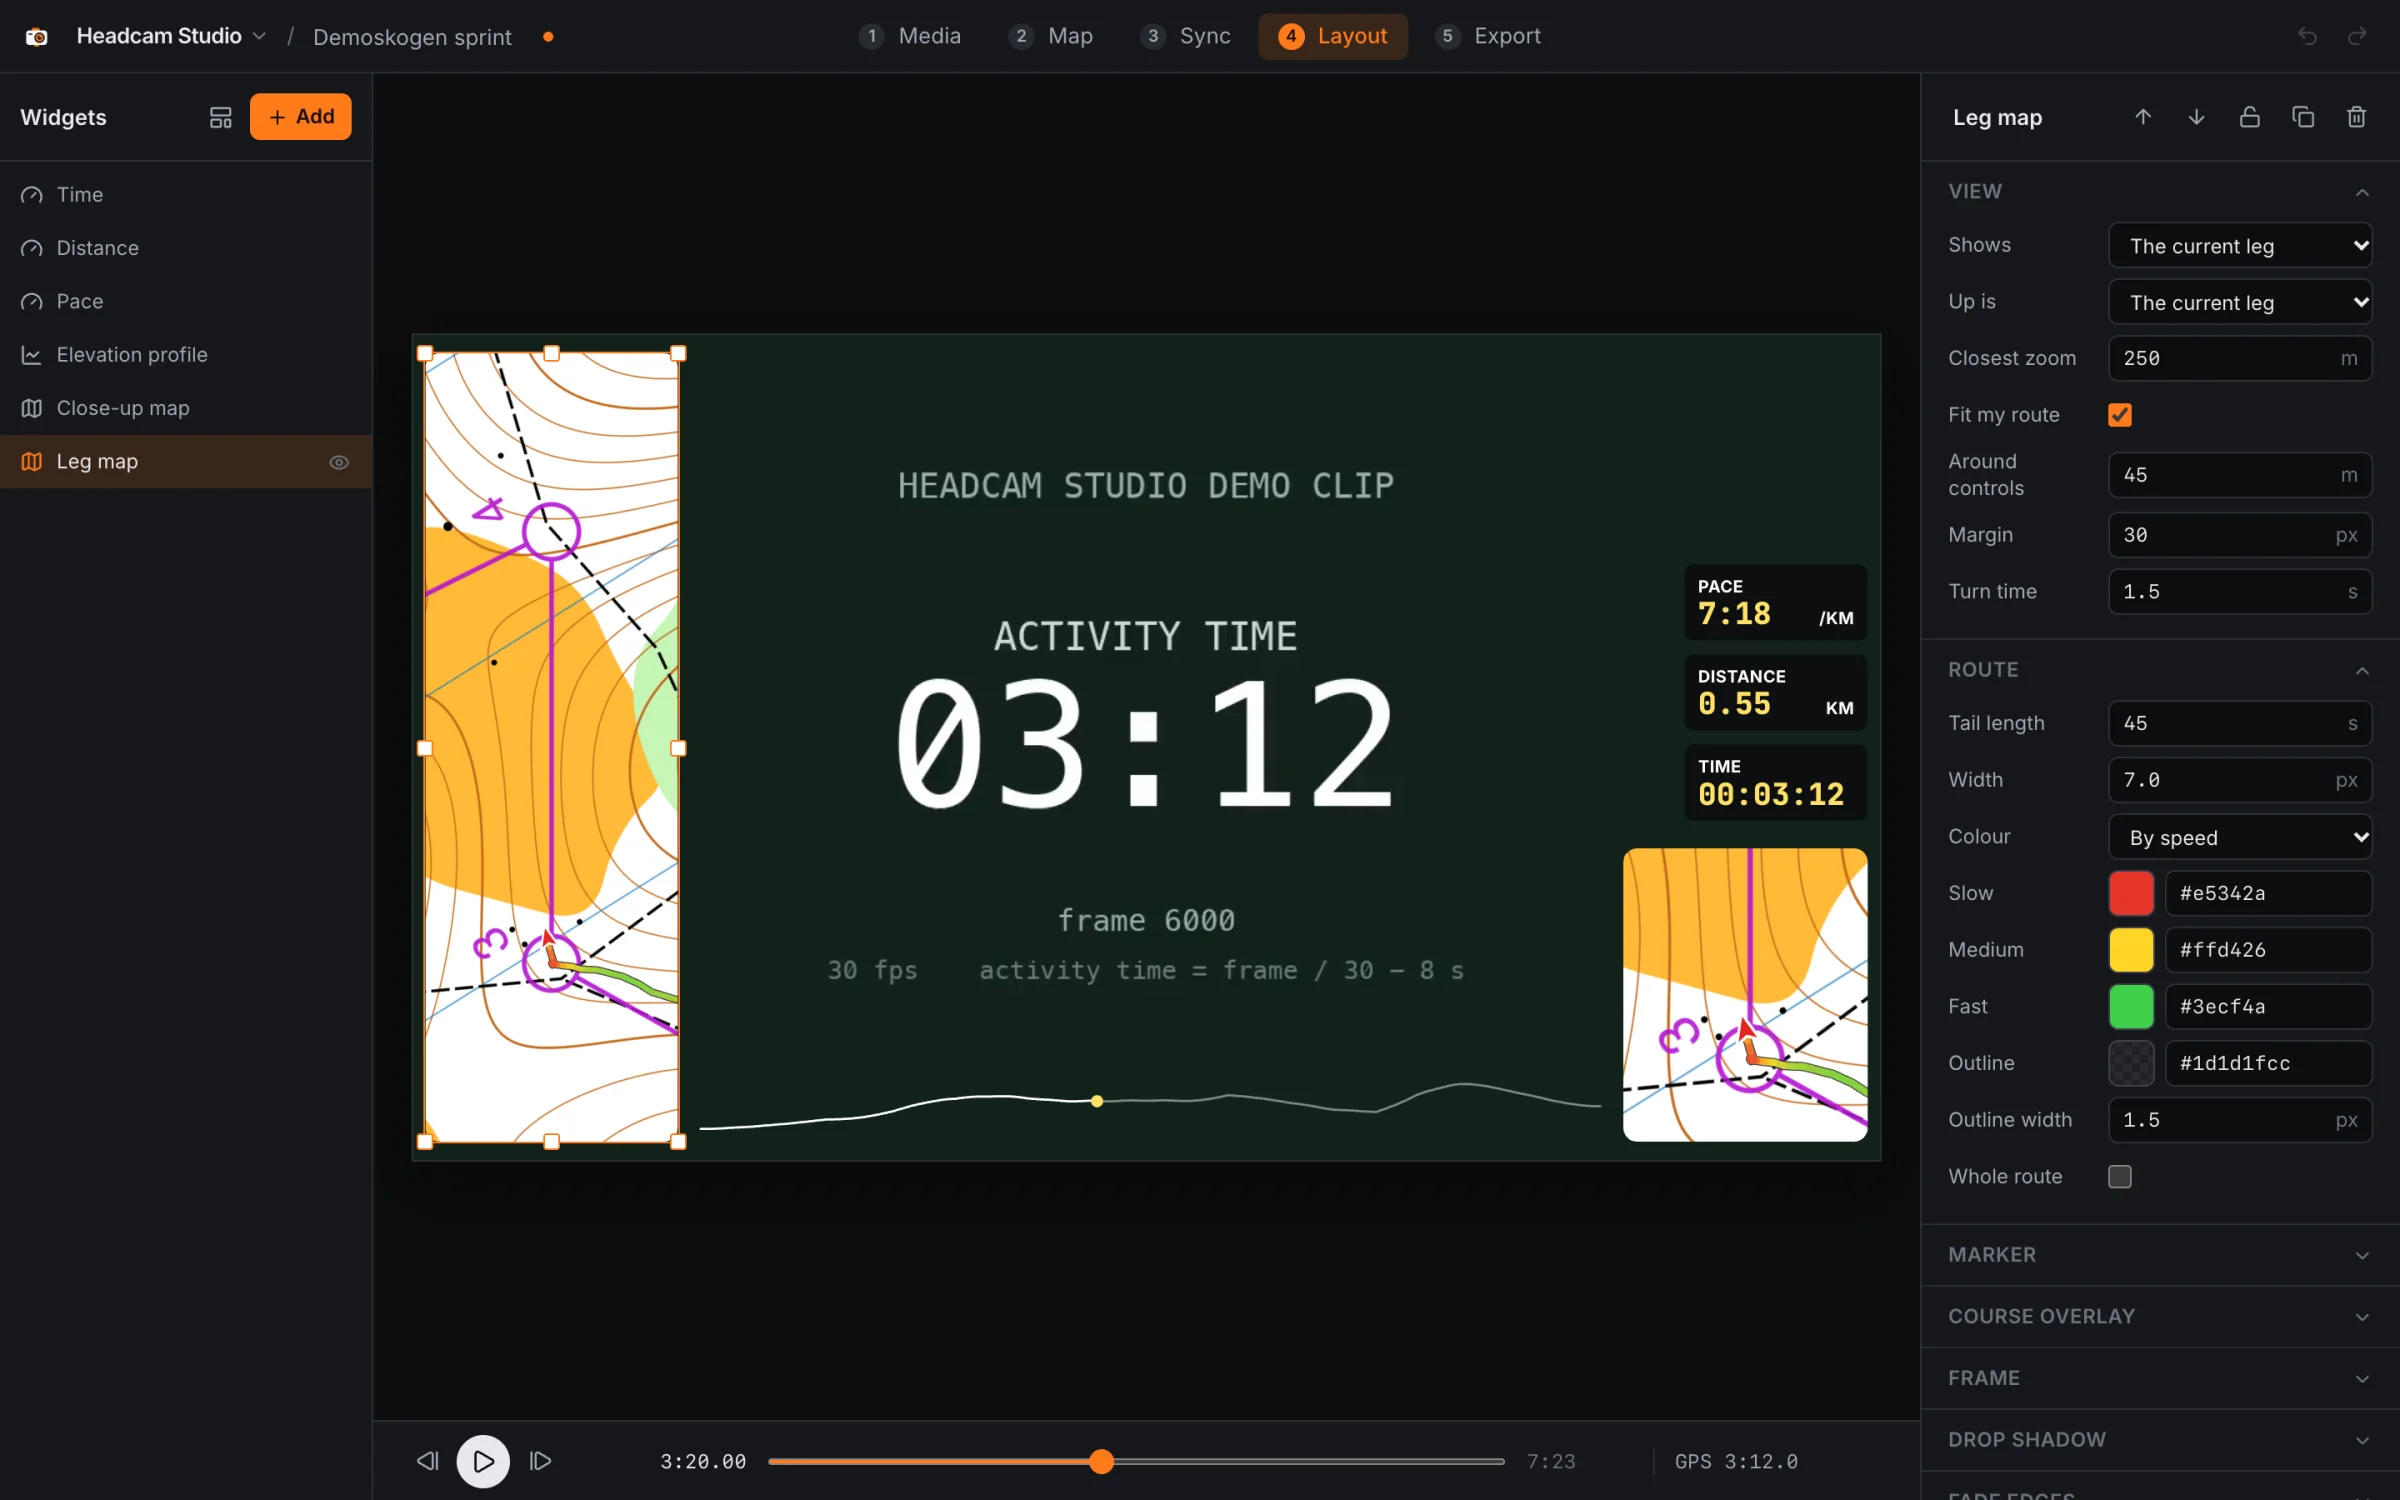
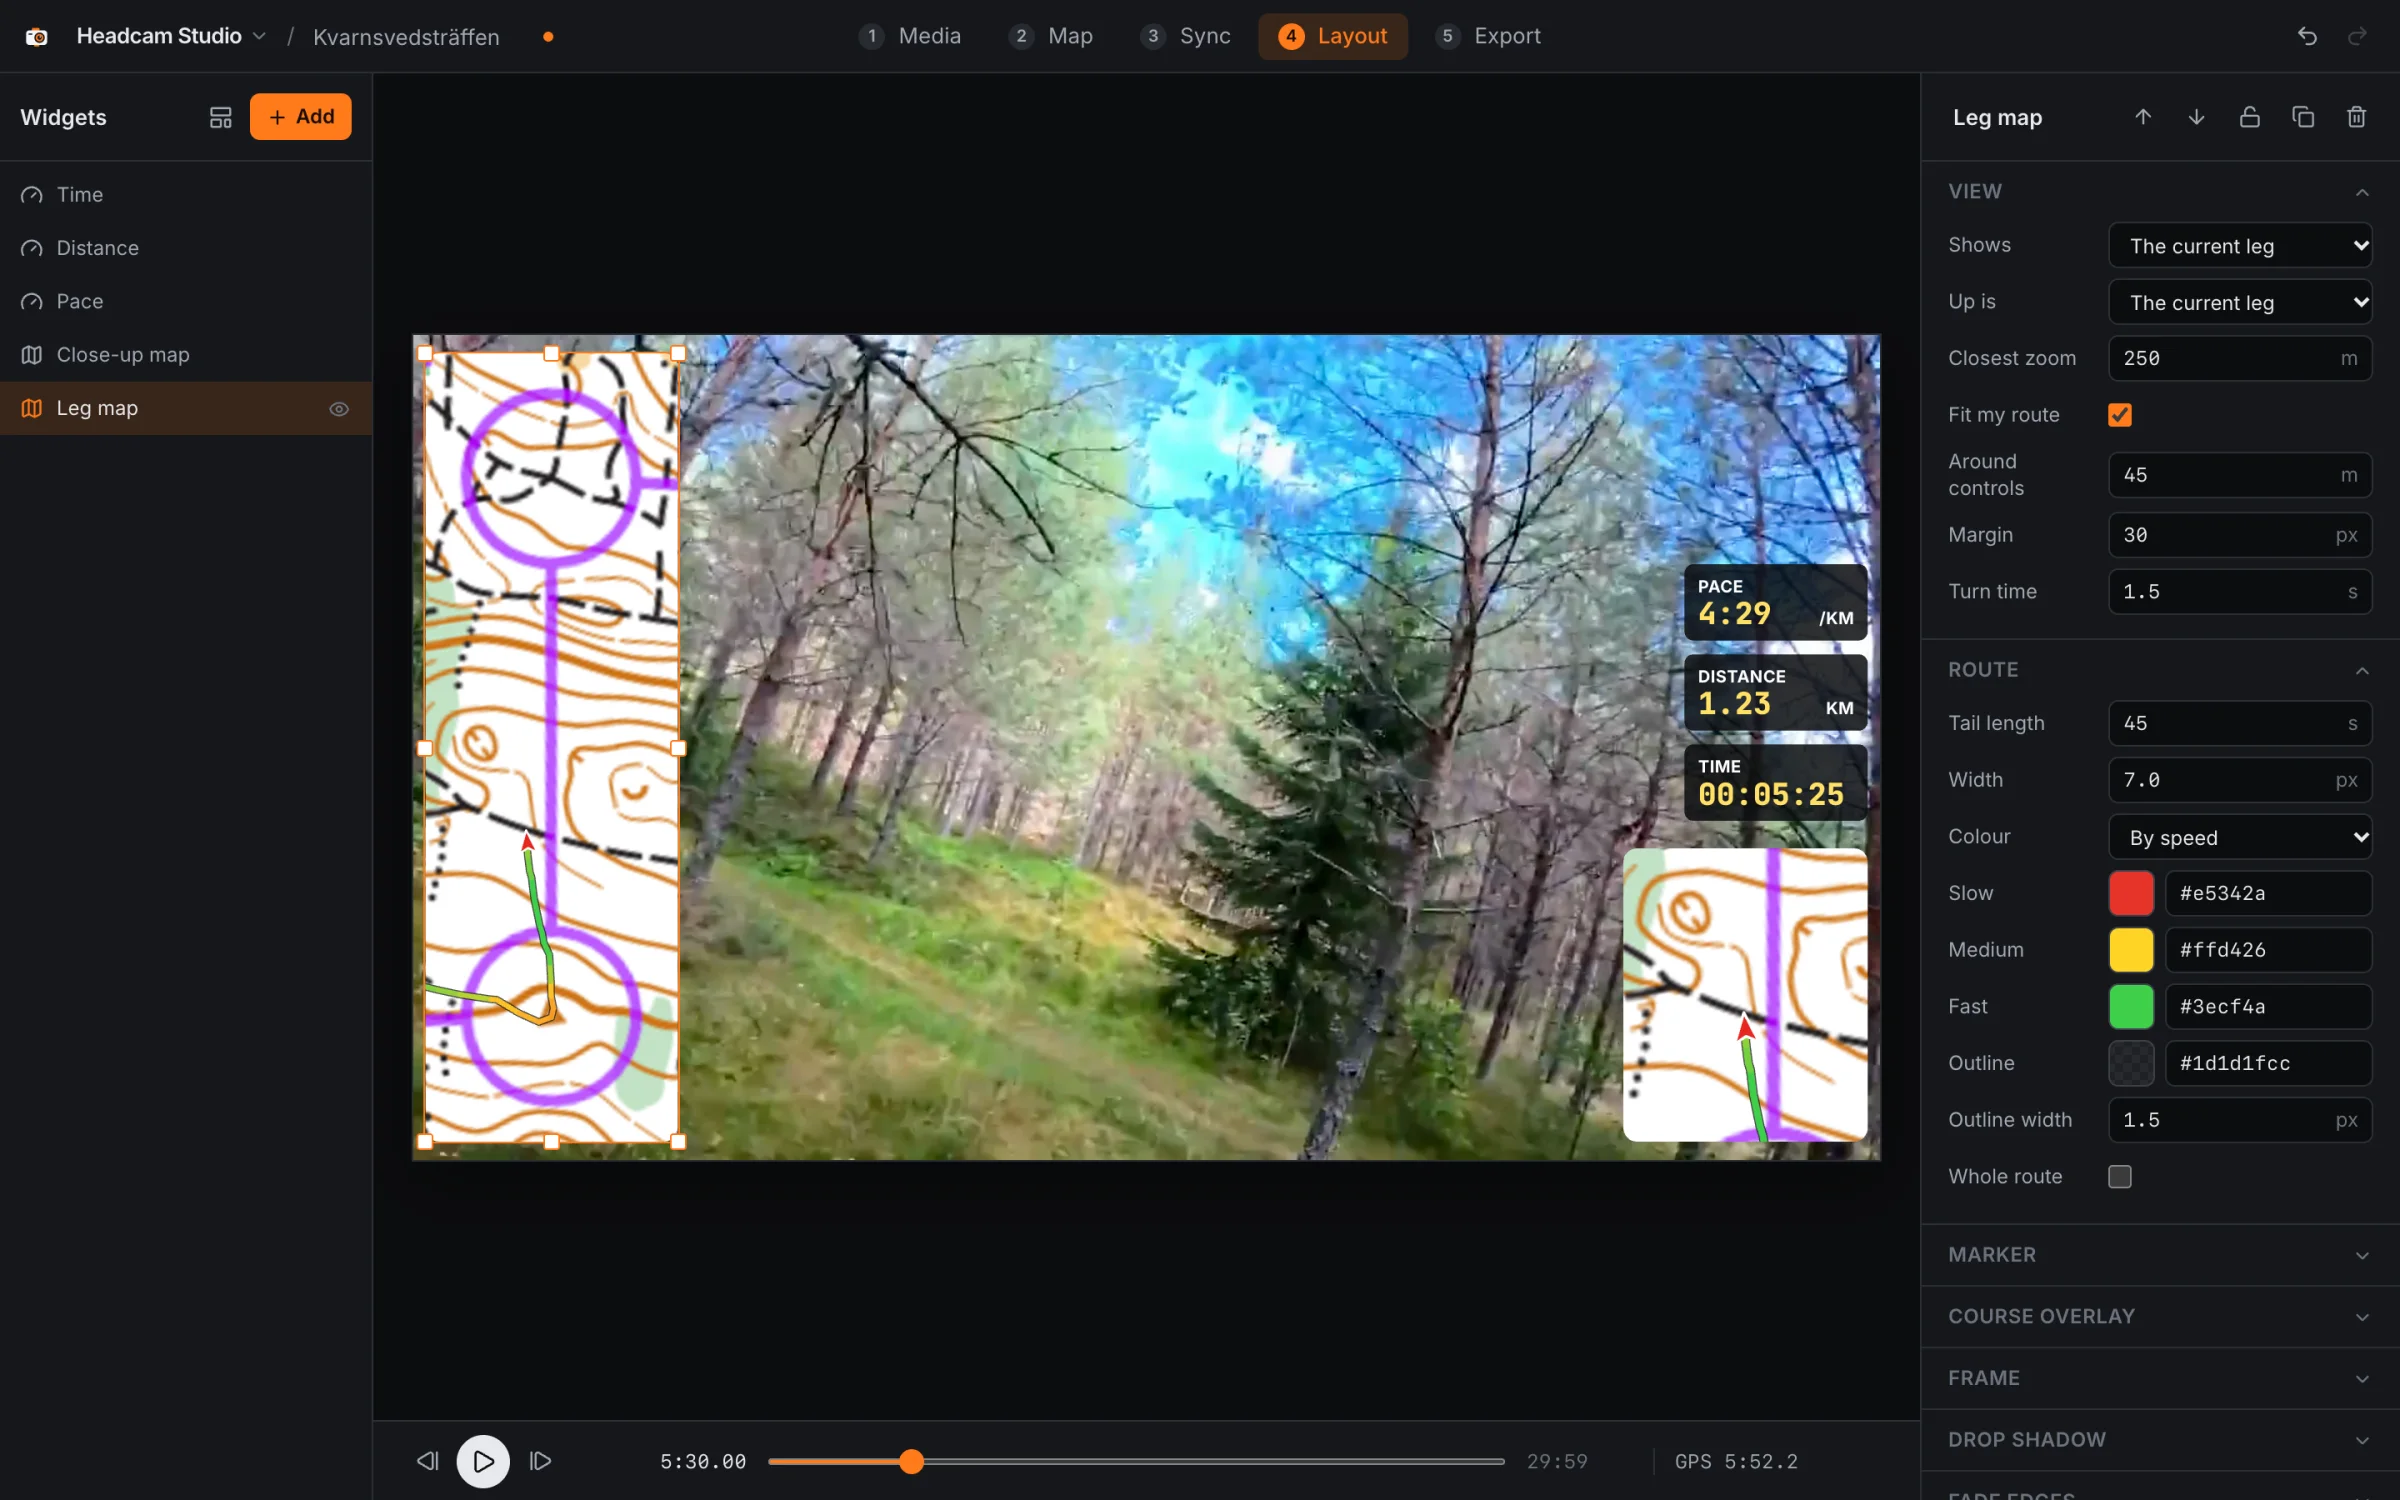
Take the screenshots from a real race
The Map, Sync and Layout shots now show Kvarnsvedsträffen instead of the
synthetic demo project. SITE.md describes how to retake them.

diff --git a/SITE.md b/SITE.md
@@ -34,16 +34,18 @@ app is signed and notarized, the Windows installer is not signed, and the app up
 | `index.html`, `styles.css`    | The page. Colours and type follow the app                     |
 | `main.js`                     | Download links from the latest release, and which installer suits the visitor |
 | `assets/hero.webp`            | The illustration on the app's start page                      |
-| `assets/step-*.webp`          | Screenshots of the app's demo project                         |
+| `assets/step-*.webp`          | Screenshots of the app with a real race (Kvarnsvedsträffen)   |
 | `assets/inter.woff2`          | Inter, under the SIL Open Font Licence (`inter-LICENSE.txt`)  |
 | `assets/tajga-logo-white.svg` | Tajga Studio's supplied white logo, used for the creator credit |
 
-To retake the screenshots, in the app's directory (they are 1440 × 900 at `--scale 2`):
+To retake the screenshots, in the app's directory (needs the race in `samples/kvarnsveden/`; they
+are 1440 × 900 at twice the size):
 
 ```sh
-pnpm shot --scale 2 --out tmp/site/layout.png --run "await page.waitForFunction(() => window.__hcs); \
-  await page.evaluate(() => window.__hcs.loadDemo({ prefill: true })); \
-  await page.getByRole('button', { name: /Layout/ }).click(); \
-  await page.evaluate(() => window.__hcs.playback.seek(200)); await page.waitForTimeout(1500)"
-cwebp -q 84 -resize 2400 0 tmp/site/layout.png -o ../headcam-studio-site/assets/step-layout.webp
+pnpm tsx scripts/site-shots.ts   # map.png, sync.png and layout.png in tmp/site/
+for step in map sync layout; do
+  cwebp -q 84 -resize 2400 0 tmp/site/$step.png -o ../headcam-studio-releases/assets/step-$step.webp
+done
 ```
+
+`--map`, `--sync` and `--layout` take the moment of the video to show, in seconds.
